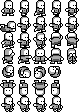
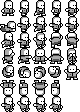
Chests

Changed region(s): [[0.8, 0.5625, 1.0, 0.7232]]

diff --git a/src/chest.ts b/src/chest.ts
@@ -1,0 +1,69 @@
+import { Canvas, Flip } from "./canvas.js";
+import { CoreEvent } from "./core.js";
+import { StrongInteractionTarget } from "./interactiontarget.js";
+import { MessageBox } from "./messagebox.js";
+import { Player } from "./player.js";
+import { Sprite } from "./sprite.js";
+import { Vector2 } from "./vector.js";
+
+
+export class Chest extends StrongInteractionTarget {
+
+
+    private id : number;
+    private flip : Flip;
+    private opened : boolean;
+
+    private readonly message : MessageBox;
+
+
+    constructor(x : number, y : number, id : number, message : MessageBox) {
+
+        super(x, y, true);
+
+        this.spr = new Sprite(16, 16);
+        this.flip = ((x / 16) | 0) % 2 == 0 ? Flip.None : Flip.Horizontal;
+
+        this.hitbox = new Vector2(12, 8);
+
+        this.id = id;
+        this.opened = false;
+
+        this.message = message;
+    }
+
+
+    protected interactionEvent(player : Player, event : CoreEvent) {
+
+        const WAIT_TIME = 60;
+
+        if (this.opened) return;
+
+        let text = <Array<string>> event.localization.findValue(["chest", String(this.id)]);
+
+        if (text == null) return;
+
+        this.message.addMessages(text);
+        this.message.activate(WAIT_TIME);
+
+        player.setObtainItemPose(this.id);
+
+        this.opened = true;
+        this.canInteract = false;
+
+        this.spr.setFrame(1, 0);
+    }
+
+
+    public draw(canvas : Canvas) {
+
+        let bmp = canvas.assets.getBitmap("chest");
+
+        if (!this.inCamera) return;
+
+        canvas.drawSprite(this.spr, bmp, 
+            this.pos.x - this.spr.width/2,
+            this.pos.y - this.spr.height/2,
+            this.flip);
+    }
+}

diff --git a/src/player.ts b/src/player.ts
@@ -55,6 +55,9 @@ export class Player extends CollisionObject {
     private showActionSymbol : boolean;
     private sprActionSymbol : Sprite;
 
+    private holdingItem : boolean;
+    private itemID : number;
+
     private projectileCb : SpawnProjectileCallback;
 
 
@@ -108,6 +111,9 @@ export class Player extends CollisionObject {
 
         this.showActionSymbol = false;
         this.sprActionSymbol = new Sprite(16, 16);
+
+        this.holdingItem = false;
+        this.itemID = 0;
 
         this.projectileCb = projectileCb;
     }
@@ -538,6 +544,7 @@ export class Player extends CollisionObject {
         this.touchLadder = false;
         this.isLadderTop = false;
         this.showActionSymbol = false;
+        this.holdingItem = false;
     }
 
 
@@ -672,6 +679,12 @@ export class Player extends CollisionObject {
             canvas.assets.getBitmap("player"), 
             px, py, this.flip);
 
+        if (this.holdingItem) {
+
+            canvas.drawBitmapRegion(canvas.assets.getBitmap("items"), 
+                this.itemID * 16, 0, 16, 16,
+                px, py - 15);
+        }
     }
 
 
@@ -821,5 +834,17 @@ export class Player extends CollisionObject {
     public showSymbol() {
 
         this.showActionSymbol = true;
+    }
+
+    
+    public setObtainItemPose(itemID : number) {
+
+        this.stopMovement();
+        this.spr.setFrame(4, 4);
+
+        this.showActionSymbol = false;
+        this.holdingItem = true;
+
+        this.itemID = itemID;
     }
 }

diff --git a/src/messagebox.ts b/src/messagebox.ts
@@ -18,6 +18,8 @@ export class MessageBox {
 
     private active : boolean;
 
+    private waitTimer : number;
+
 
     constructor() {
 
@@ -31,6 +33,8 @@ export class MessageBox {
         this.ready = false;
 
         this.active = false;
+
+        this.waitTimer = 0;
     }
 
 
@@ -50,7 +54,7 @@ export class MessageBox {
     }
 
 
-    public activate() {
+    public activate(waitTime = 0) {
 
         if (this.queue.length == 0) return;
 
@@ -62,6 +66,8 @@ export class MessageBox {
 
         this.currentMessage = this.queue.shift();
         this.currentSize = this.sizes.shift().clone();
+
+        this.waitTimer = waitTime;
     }
 
 
@@ -76,6 +82,12 @@ export class MessageBox {
         const CHAR_TIME = 4;
 
         if (!this.active) return;
+
+        if (this.waitTimer > 0) {
+
+            this.waitTimer -= event.step;
+            return;
+        }
 
         if (!this.ready) {
 
@@ -135,7 +147,7 @@ export class MessageBox {
             [0, 0, 0]
         ];
 
-        if (!this.active) return;
+        if (!this.active || this.waitTimer > 0) return;
 
         let w = this.currentSize.x * 8;
         let h = this.currentSize.y * 10;

diff --git a/src/interactiontarget.ts b/src/interactiontarget.ts
@@ -6,9 +6,14 @@ import { Player } from "./player.js";
 export class WeakInteractionTarget extends WeakGameObject {
 
 
+    protected canInteract : boolean;
+
+
     constructor(x : number, y : number, exist = true) {
 
         super(x, y, exist);
+
+        this.canInteract = true;
     }
 
 
@@ -18,7 +23,7 @@ export class WeakInteractionTarget extends WeakGameObject {
 
     public playerCollision(player : Player, event : CoreEvent) : boolean {
 
-        if (!this.exist || !this.inCamera || this.dying) 
+        if (!this.canInteract || !this.exist || !this.inCamera || this.dying) 
             return false;
 
         this.playerEvent(player, event);

diff --git a/src/objectmanager.ts b/src/objectmanager.ts
@@ -1,5 +1,6 @@
 import { Camera } from "./camera.js";
 import { Canvas } from "./canvas.js";
+import { Chest } from "./chest.js";
 import { Coin } from "./coin.js";
 import { CoreEvent } from "./core.js";
 import { Enemy, getEnemyType } from "./enemy.js";
@@ -83,6 +84,12 @@ export class ObjectManager {
     public addNPC(x : number, y : number, id : number) {
 
         this.strongInteractionTargets.push(new NPC(x*16+8, y*16+8, id, this.message));
+    }
+
+
+    public addChest(x : number, y : number, id : number) {
+
+        this.strongInteractionTargets.push(new Chest(x*16+8, y*16+8, id, this.message));
     }
 
 

diff --git a/src/stage.ts b/src/stage.ts
@@ -265,6 +265,11 @@ export class Stage {
                     objects.addNPC(x, y, id);
                     break;
 
+                // Chest
+                case 5:
+                    objects.addChest(x, y, id);
+                    break;
+
                 default:
 
                     if (tid >= 17 && tid < 17+16) {
